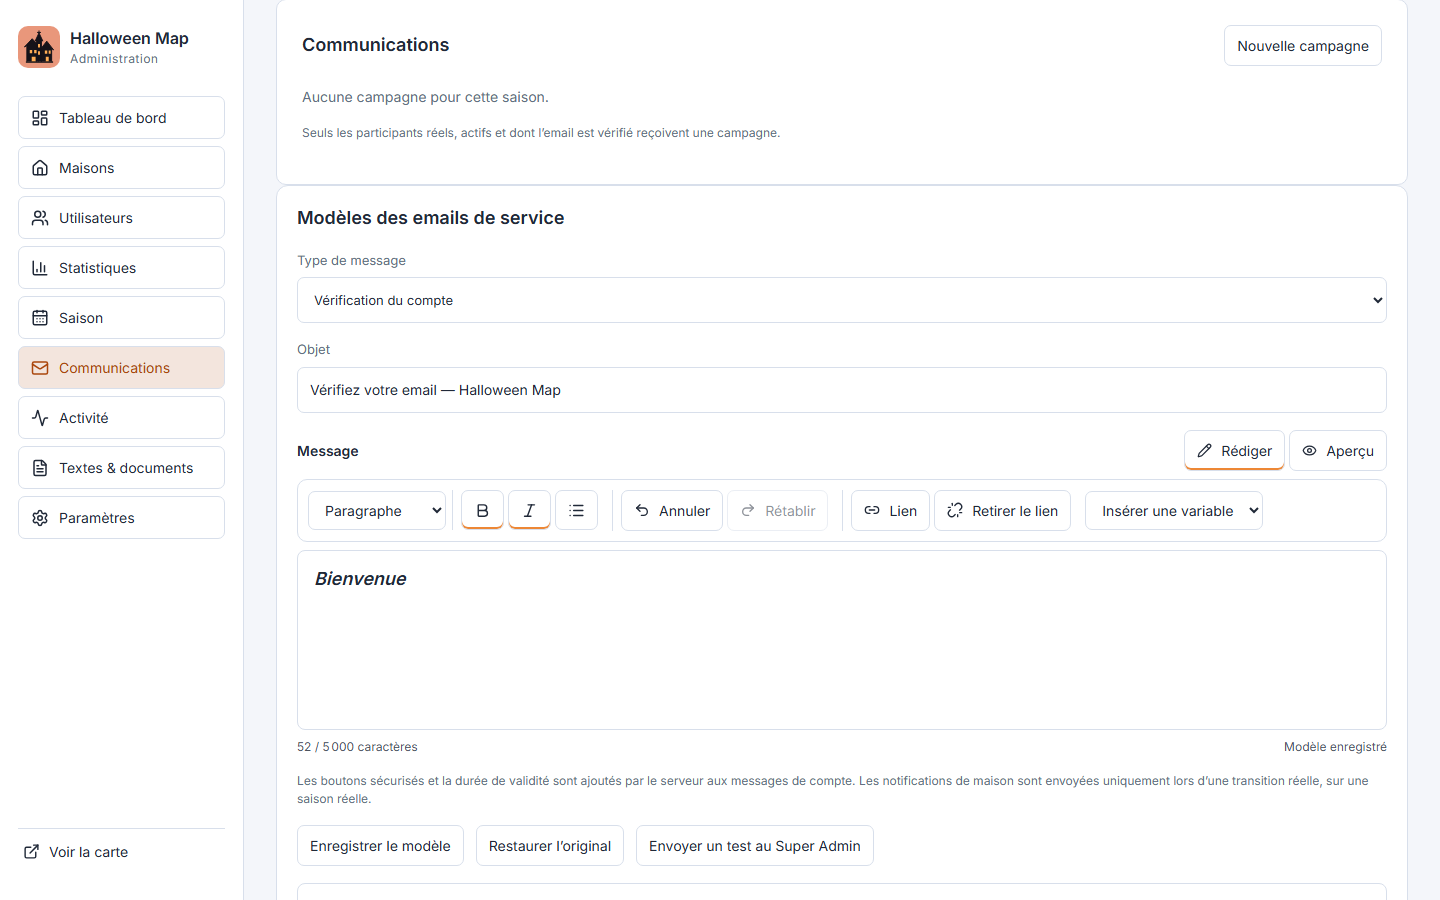
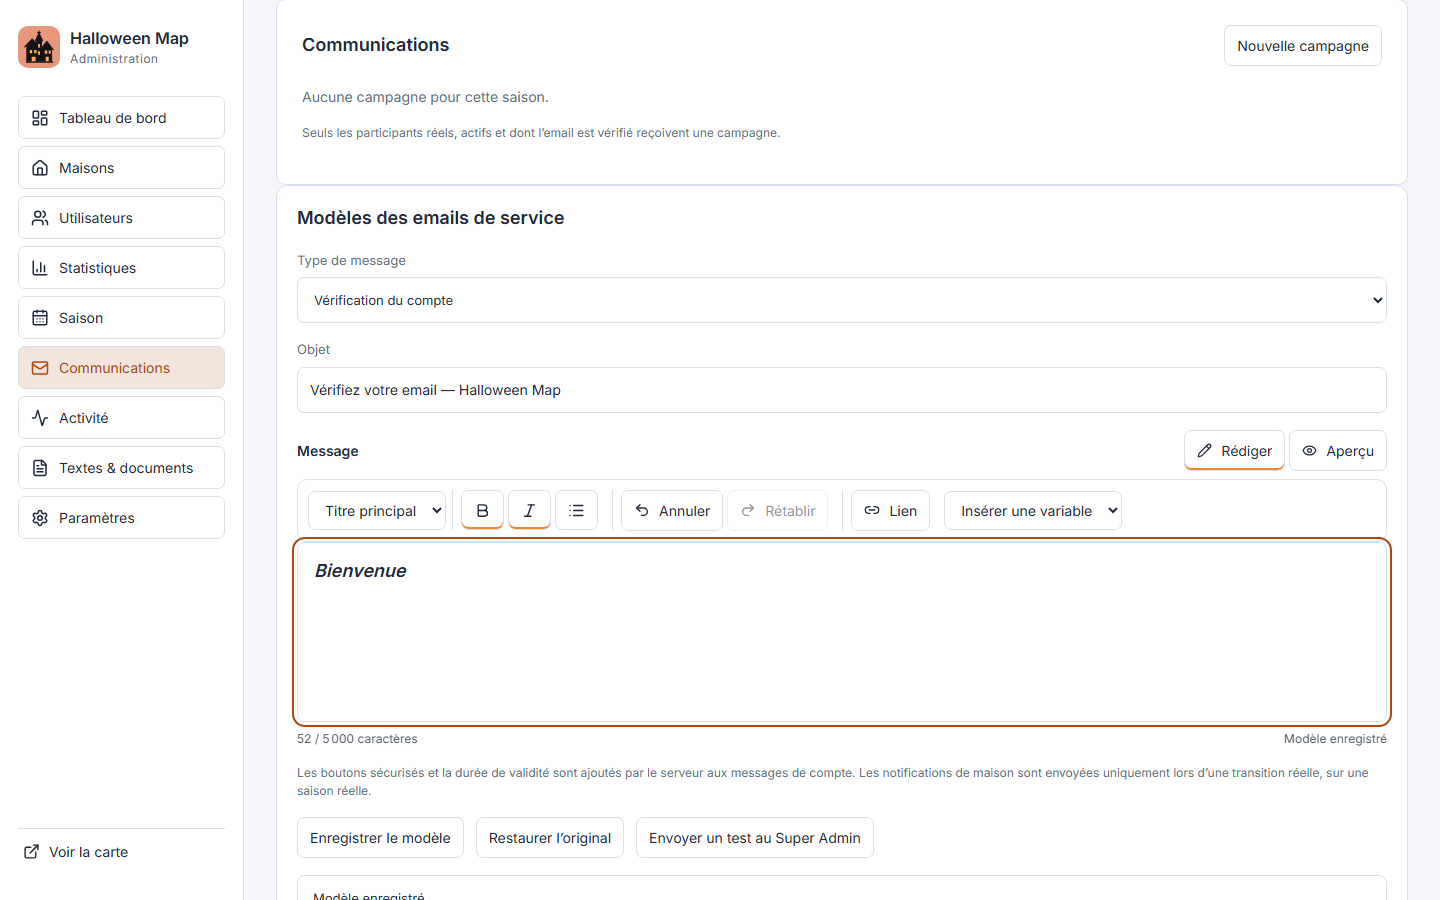
Keep Tiptap mounted across preview and verify contextual heading state

diff --git a/components/VisualEditor.tsx b/components/VisualEditor.tsx
@@ -213,187 +213,185 @@ export default function VisualEditor({
           </Button>
         </div>
       </div>
-      {!preview && (
-        <>
-          <div
-            role="toolbar"
-            aria-label="Mise en forme"
-            className="editor-toolbar"
+      <div hidden={preview}>
+        <div
+          role="toolbar"
+          aria-label="Mise en forme"
+          className="editor-toolbar"
+        >
+          <Select
+            aria-label="Style de paragraphe"
+            disabled={disabled || !editor}
+            value={
+              editor?.isActive("heading", { level: 2 })
+                ? "2"
+                : editor?.isActive("heading", { level: 3 })
+                  ? "3"
+                  : "paragraph"
+            }
+            onChange={(e) => {
+              const chain = editor?.chain().focus();
+              if (editor?.isActive("bulletList"))
+                chain?.liftListItem("listItem");
+              if (e.target.value === "paragraph") chain?.setParagraph().run();
+              else
+                chain
+                  ?.setHeading({ level: Number(e.target.value) as 2 | 3 })
+                  .run();
+            }}
           >
-            <Select
-              aria-label="Style de paragraphe"
-              disabled={disabled || !editor}
-              value={
-                editor?.isActive("heading", { level: 2 })
-                  ? "2"
-                  : editor?.isActive("heading", { level: 3 })
-                    ? "3"
-                    : "paragraph"
-              }
-              onChange={(e) => {
-                const chain = editor?.chain().focus();
-                if (editor?.isActive("bulletList"))
-                  chain?.liftListItem("listItem");
-                if (e.target.value === "paragraph") chain?.setParagraph().run();
-                else
-                  chain
-                    ?.setHeading({ level: Number(e.target.value) as 2 | 3 })
-                    .run();
+            <option value="paragraph">Paragraphe</option>
+            <option value="2">Titre principal</option>
+            <option value="3">Sous-titre</option>
+          </Select>
+          <div
+            className="editor-tool-group"
+            role="group"
+            aria-label="Texte et listes"
+          >
+            {[
+              ["Gras", "bold"],
+              ["Italique", "italic"],
+              ["Liste", "insertUnorderedList"],
+            ].map(([title, name]) => (
+              <Button
+                key={name}
+                disabled={disabled || !editor}
+                title={title}
+                aria-label={title}
+                aria-pressed={
+                  !!editor?.isActive(
+                    name === "insertUnorderedList" ? "bulletList" : name,
+                  )
+                }
+                type="button"
+                onMouseDown={(e) => e.preventDefault()}
+                onClick={() => command(name)}
+              >
+                {name === "bold" ? (
+                  <Bold size={17} />
+                ) : name === "italic" ? (
+                  <Italic size={17} />
+                ) : (
+                  <List size={17} />
+                )}
+              </Button>
+            ))}
+          </div>
+          <div
+            className="editor-tool-group"
+            role="group"
+            aria-label="Historique"
+          >
+            <Button
+              disabled={disabled || !editor?.can().undo()}
+              type="button"
+              onMouseDown={(e) => e.preventDefault()}
+              onClick={() => editor?.chain().focus().undo().run()}
+            >
+              <Undo2 size={16} /> Annuler
+            </Button>
+            <Button
+              disabled={disabled || !editor?.can().redo()}
+              type="button"
+              onMouseDown={(e) => e.preventDefault()}
+              onClick={() => editor?.chain().focus().redo().run()}
+            >
+              <Redo2 size={16} /> Rétablir
+            </Button>
+          </div>
+          <div className="editor-tool-group" role="group" aria-label="Liens">
+            <Button
+              disabled={disabled}
+              type="button"
+              onMouseDown={(e) => e.preventDefault()}
+              onClick={() => {
+                setLinkUrl(editor?.getAttributes("link").href ?? "");
+                setLinkError("");
+                setLinkOpen(!linkOpen);
               }}
             >
-              <option value="paragraph">Paragraphe</option>
-              <option value="2">Titre principal</option>
-              <option value="3">Sous-titre</option>
-            </Select>
-            <div
-              className="editor-tool-group"
-              role="group"
-              aria-label="Texte et listes"
-            >
-              {[
-                ["Gras", "bold"],
-                ["Italique", "italic"],
-                ["Liste", "insertUnorderedList"],
-              ].map(([title, name]) => (
-                <Button
-                  key={name}
-                  disabled={disabled || !editor}
-                  title={title}
-                  aria-label={title}
-                  aria-pressed={
-                    !!editor?.isActive(
-                      name === "insertUnorderedList" ? "bulletList" : name,
-                    )
-                  }
-                  type="button"
-                  onMouseDown={(e) => e.preventDefault()}
-                  onClick={() => command(name)}
-                >
-                  {name === "bold" ? (
-                    <Bold size={17} />
-                  ) : name === "italic" ? (
-                    <Italic size={17} />
-                  ) : (
-                    <List size={17} />
-                  )}
-                </Button>
-              ))}
-            </div>
-            <div
-              className="editor-tool-group"
-              role="group"
-              aria-label="Historique"
-            >
+              <Link2 size={16} /> Lien
+            </Button>
+            {editor?.isActive("link") && (
               <Button
-                disabled={disabled || !editor?.can().undo()}
                 type="button"
-                onMouseDown={(e) => e.preventDefault()}
-                onClick={() => editor?.chain().focus().undo().run()}
-              >
-                <Undo2 size={16} /> Annuler
-              </Button>
-              <Button
-                disabled={disabled || !editor?.can().redo()}
-                type="button"
-                onMouseDown={(e) => e.preventDefault()}
-                onClick={() => editor?.chain().focus().redo().run()}
-              >
-                <Redo2 size={16} /> Rétablir
-              </Button>
-            </div>
-            <div className="editor-tool-group" role="group" aria-label="Liens">
-              <Button
                 disabled={disabled}
-                type="button"
                 onMouseDown={(e) => e.preventDefault()}
-                onClick={() => {
-                  setLinkUrl(editor?.getAttributes("link").href ?? "");
-                  setLinkError("");
-                  setLinkOpen(!linkOpen);
-                }}
+                onClick={() =>
+                  editor
+                    .chain()
+                    .focus()
+                    .extendMarkRange("link")
+                    .unsetLink()
+                    .run()
+                }
               >
-                <Link2 size={16} /> Lien
+                <Unlink size={16} /> Retirer le lien
               </Button>
-              {editor?.isActive("link") && (
-                <Button
-                  type="button"
-                  disabled={disabled}
-                  onMouseDown={(e) => e.preventDefault()}
-                  onClick={() =>
-                    editor
-                      .chain()
-                      .focus()
-                      .extendMarkRange("link")
-                      .unsetLink()
-                      .run()
-                  }
-                >
-                  <Unlink size={16} /> Retirer le lien
-                </Button>
-              )}
-            </div>
-            {variables.length > 0 && (
-              <Select
-                disabled={disabled}
-                aria-label="Insérer une variable"
-                defaultValue=""
-                onChange={(e) => {
-                  command("insertText", `{{${e.target.value}}}`);
-                  e.target.value = "";
-                }}
-              >
-                <option value="" disabled>
-                  Insérer une variable
-                </option>
-                {variables.map((v) => (
-                  <option key={v} value={v}>
-                    {variableLabels[v] ?? v}
-                  </option>
-                ))}
-              </Select>
             )}
           </div>
-          {linkOpen && (
-            <div
-              className="editor-link-panel"
-              role="group"
-              aria-label="Éditer le lien"
+          {variables.length > 0 && (
+            <Select
+              disabled={disabled}
+              aria-label="Insérer une variable"
+              defaultValue=""
+              onChange={(e) => {
+                command("insertText", `{{${e.target.value}}}`);
+                e.target.value = "";
+              }}
             >
-              <label>
-                Adresse du lien
-                <input
-                  aria-label="Adresse du lien"
-                  value={linkUrl}
-                  onChange={(e) => setLinkUrl(e.target.value)}
-                  placeholder="https://…"
-                  disabled={disabled}
-                />
-              </label>
-              <Button
-                type="button"
-                disabled={disabled}
-                onClick={() => {
-                  if (!/^(https:\/\/|\/(?!\/)|mailto:)[^\s]*$/i.test(linkUrl)) {
-                    setLinkError(
-                      "Utilisez un lien HTTPS, mailto ou une page interne.",
-                    );
-                    return;
-                  }
-                  command("createLink", linkUrl);
-                  setLinkOpen(false);
-                }}
-              >
-                Appliquer le lien
-              </Button>
-              <Button type="button" onClick={() => setLinkOpen(false)}>
-                Fermer
-              </Button>
-              {linkError && <p role="alert">{linkError}</p>}
-            </div>
+              <option value="" disabled>
+                Insérer une variable
+              </option>
+              {variables.map((v) => (
+                <option key={v} value={v}>
+                  {variableLabels[v] ?? v}
+                </option>
+              ))}
+            </Select>
           )}
-          <EditorContent editor={editor} />
-        </>
-      )}
+        </div>
+        {linkOpen && (
+          <div
+            className="editor-link-panel"
+            role="group"
+            aria-label="Éditer le lien"
+          >
+            <label>
+              Adresse du lien
+              <input
+                aria-label="Adresse du lien"
+                value={linkUrl}
+                onChange={(e) => setLinkUrl(e.target.value)}
+                placeholder="https://…"
+                disabled={disabled}
+              />
+            </label>
+            <Button
+              type="button"
+              disabled={disabled}
+              onClick={() => {
+                if (!/^(https:\/\/|\/(?!\/)|mailto:)[^\s]*$/i.test(linkUrl)) {
+                  setLinkError(
+                    "Utilisez un lien HTTPS, mailto ou une page interne.",
+                  );
+                  return;
+                }
+                command("createLink", linkUrl);
+                setLinkOpen(false);
+              }}
+            >
+              Appliquer le lien
+            </Button>
+            <Button type="button" onClick={() => setLinkOpen(false)}>
+              Fermer
+            </Button>
+            {linkError && <p role="alert">{linkError}</p>}
+          </div>
+        )}
+        <EditorContent editor={editor} />
+      </div>
       {preview && (
         <section className="editor-preview" aria-label="Aperçu du contenu">
           <div dangerouslySetInnerHTML={{ __html: editorialHtml(value) }} />

diff --git a/e2e/release-v08.spec.ts b/e2e/release-v08.spec.ts
@@ -722,6 +722,7 @@ for (const width of [390, 1440])
       editor.getByLabel("Aperçu du contenu").locator("h2 a"),
     ).toHaveText("Bienvenue");
     await editor.getByRole("button", { name: "Rédiger", exact: true }).click();
+    await expect(surface.locator("h2 a")).toHaveText("Bienvenue");
     await page
       .getByRole("button", { name: "Enregistrer le modèle", exact: true })
       .click();
@@ -734,6 +735,8 @@ for (const width of [390, 1440])
       ).rows[0].body,
     ).toContain("# [");
     await editor.scrollIntoViewIfNeeded();
+    await surface.locator("h2").click();
+    await expect(editor.getByLabel("Style de paragraphe")).toHaveValue("2");
     await page.screenshot({
       path: `test-results/review-editor-${width}.png`,
       fullPage: true,
